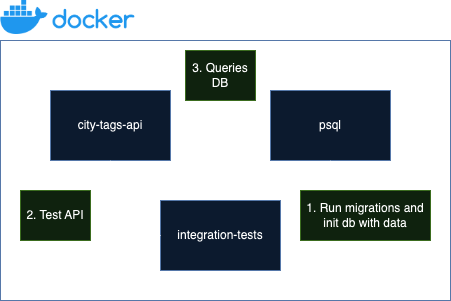
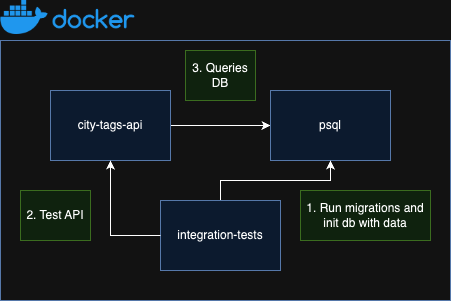
Update diagrams

diff --git a/README.md b/README.md
@@ -7,7 +7,9 @@ API to be able to consume tags on cities, for example if the humidity is "modera
 
 ## Architecture
 
-![Architecture diagram](imgs/city-tags-api.png)
+<div style="text-align: center;">
+  <img src="imgs/city-tags-api.png" alt="Architecture diagram">
+</div>
 
 A DNS record with an SSL certificate is used to be able to set up a connection through HTTPS. An Application Load Balancer (ALB) is registered as a target of this registry. The ALB redirects traffic to the ECS Service where the Go API is deployed. The ECS Service makes use of SSM Parameter Store for environment variables and of ECR to store the different container images of the API. Finally, the API queries the database, in this case Supabase, where the serverless Postgres database is.
 
@@ -43,7 +45,9 @@ These tests have been developed to test all the functionality that interacts wit
 - psql: postgres database that will simulate the Supabase database.
 - integration-tests: container where the integration tests will run. Before running the tests in runs the goose migrations and initializes the database with test data.
 
-![Testing env diagram](imgs/city-tags-api-testing.png)
+<div style="text-align: center;">
+  <img src="imgs/city-tags-api-testing.png" alt="Architecture diagram">
+</div>
 
 To run the integration tests you can run the following command:
 
